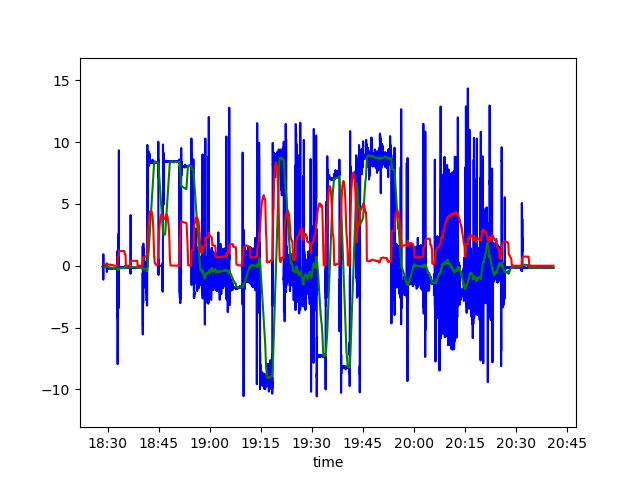
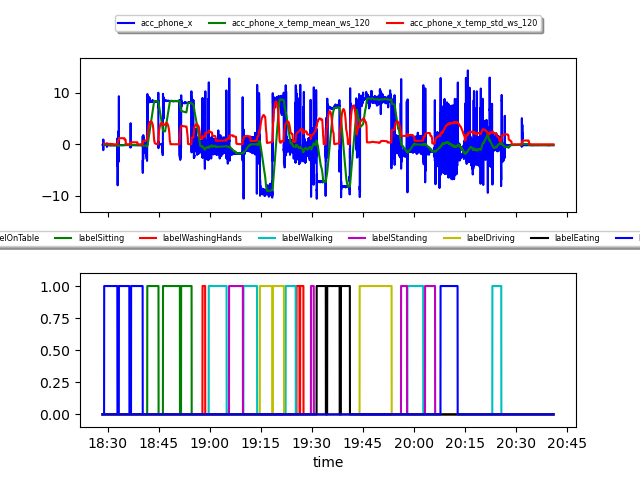
adds frequency and aggregation plots

diff --git a/Python3Code/crowdsignals_ch4.py b/Python3Code/crowdsignals_ch4.py
@@ -21,9 +21,9 @@ from Chapter4.FrequencyAbstraction import FourierTransformation
 from Chapter4.TextAbstraction import TextAbstraction
 
 # Read the result from the previous chapter, and make sure the index is of the type datetime.
-DATA_PATH = Path('./intermediate_datafiles/')
-DATASET_FNAME = 'chapter3_result_final.csv'
-RESULT_FNAME = 'chapter4_result.csv'
+DATA_PATH = Path('./mnb_intermediate_datafiles/')
+DATASET_FNAME = 'mnb_chapter3_result_final.csv'
+RESULT_FNAME = 'mnb_chapter4_result.csv'
 
 def print_flags():
     """
@@ -60,7 +60,8 @@ def main():
         # Chapter 4: Identifying aggregate attributes.
 
         # Set the window sizes to the number of instances representing 5 seconds, 30 seconds and 5 minutes
-        window_sizes = [int(float(5000)/milliseconds_per_instance), int(float(0.5*60000)/milliseconds_per_instance), int(float(5*60000)/milliseconds_per_instance)]
+        #window_sizes = [int(float(5000)/milliseconds_per_instance), int(float(0.5*60000)/milliseconds_per_instance), int(float(5*60000)/milliseconds_per_instance)]
+        window_sizes = [int(float(0.5*60000)/milliseconds_per_instance)]
 
          #please look in Chapter4 TemporalAbstraction.py to look for more aggregation methods or make your own.     
         
@@ -74,7 +75,8 @@ def main():
   
     if FLAGS.mode == 'frequency':
         # Now we move to the frequency domain, with the same window size.
-       
+
+       # TODO : Play with these parameter for Chapter 4 Question 3
         fs = float(1000)/milliseconds_per_instance
         ws = int(float(10000)/milliseconds_per_instance)
         dataset = FreqAbs.abstract_frequency(dataset, ['acc_phone_x'], ws, fs)
@@ -83,7 +85,6 @@ def main():
         print("--- %s seconds ---" % (time.time() - start_time))
   
     if FLAGS.mode == 'final':
-        
 
         ws = int(float(0.5*60000)/milliseconds_per_instance)
         fs = float(1000)/milliseconds_per_instance
@@ -98,7 +99,7 @@ def main():
         #                     ['like', 'like', 'like', 'like', 'like', 'like', 'like','like'],
         #                     ['line', 'line', 'line', 'line', 'line', 'line', 'line', 'points'])
 
-        DataViz.plot_dataset(dataset, ['hr_watch_rate','label'],['like','like'],['line','line'])
+        DataViz.plot_dataset(dataset, ['acc_phone_x','label'],['like','like'],['line','line'])
      
         CatAbs = CategoricalAbstraction()
         
@@ -127,16 +128,16 @@ def main():
         dataset.to_csv(DATA_PATH / RESULT_FNAME)
 
         #DataViz.plot_dataset(dataset, ['acc_phone_x', 'gyr_phone_x', 'hr_watch_rate', 'light_phone_lux', 'mag_phone_x', 'press_phone_', 'pca_1', 'label'], ['like', 'like', 'like', 'like', 'like', 'like', 'like','like'], ['line', 'line', 'line', 'line', 'line', 'line', 'line', 'points'])
-        DataViz.plot_dataset(dataset, ['hr_watch_rate','label'],
+        DataViz.plot_dataset(dataset, ['acc_phone_x','label'],
                              ['like','like'],
-                             ['line','line'])
+                             ['line','points'])
 
         print("--- %s seconds ---" % (time.time() - start_time))
   
 if __name__ == '__main__':
     # Command line arguments
     parser = argparse.ArgumentParser()
-    parser.add_argument('--mode', type=str, default='final',
+    parser.add_argument('--mode', type=str, default='frequency',
                         help= "Select what version to run: final, aggregation or freq \
                         'aggregation' studies the effect of several aggeregation methods \
                         'frequency' applies a Fast Fourier transformation to a single variable \
